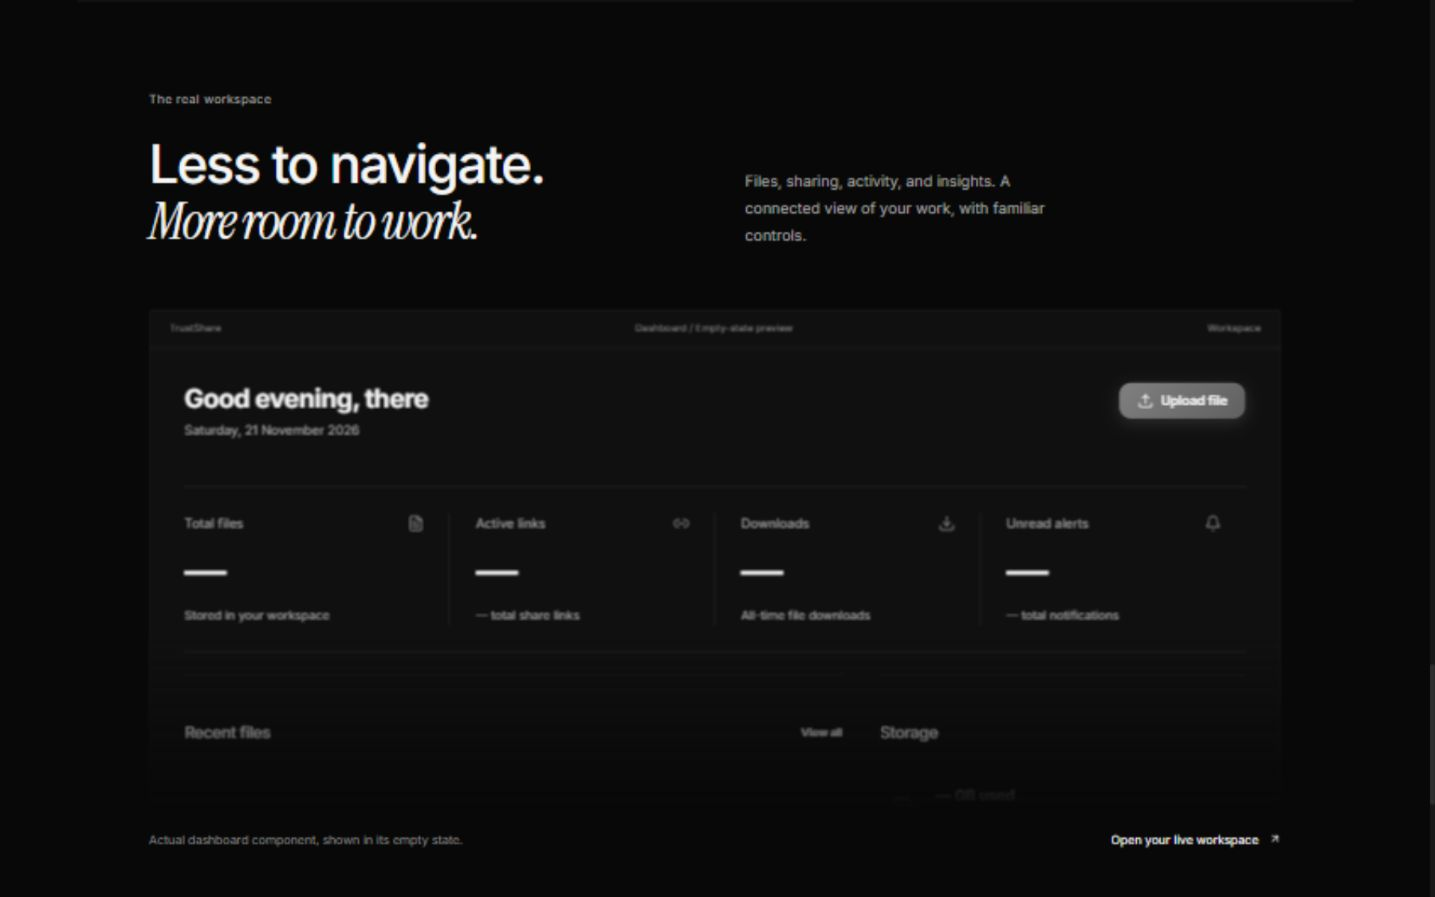
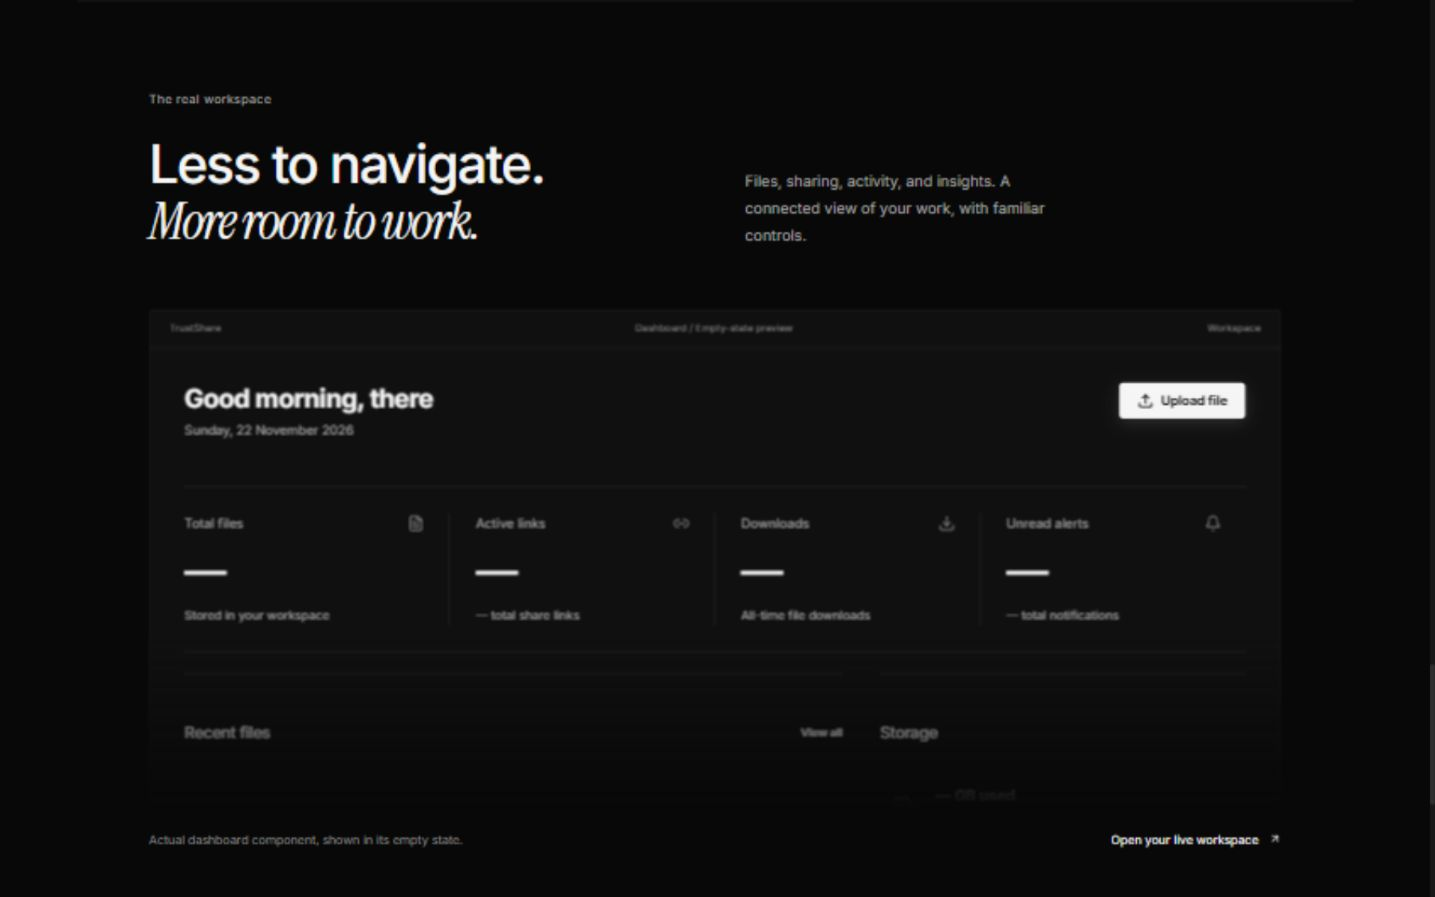
Document final visual checks and auth screenshots

Changed region(s): [[0.7666, 0.4058, 0.8892, 0.4682], [0.184, 0.437, 0.3066, 0.4994], [0.1533, 0.4682, 0.184, 0.4994]]

diff --git a/project-root/docs/MONOCHROME_REDESIGN.md b/project-root/docs/MONOCHROME_REDESIGN.md
@@ -22,7 +22,7 @@ Source: `client/src/styles/tokens.css`. Inter/system sans serves the interface; 
 | `--text-primary` | `#f5f5f5` | `#111111` | Main text |
 | `--text-secondary` | `#a6a6a6` | `#5f5f5f` | Supporting text |
 | `--text-muted` | `#858585` | `#707070` | Metadata |
-| `--accent` | white | `#111111` | Primary actions |
+| `--accent` | `#f5f5f5` | `#111111` | Primary actions |
 | `--accent-contrast` | `#080808` | white | Action foreground |
 
 Controls use small radii and restrained 120–220ms interactions. Dialogs retain modest depth. Focus outlines are visible. Status icons and explicit labels remain; meaning does not depend on hue. Analytics uses labeled grayscale series, a dashed failed-login line, and hatched download bars. API chart values are unchanged.
@@ -67,7 +67,12 @@ Public screenshots below contain no account records. Authenticated dashboard/adm
 | Formation | ![Particle torus](design/formation-dark.jpg) |
 | Formation progress | ![Particle progress](design/formation-progress-dark.jpg) |
 | Actual dashboard component | ![Empty-state dashboard preview](design/product-dark.jpg) |
+| Product preview, light | ![Light product preview](design/product-light.jpg) |
 | Closing | ![Closing](design/closing-dark.jpg) |
+| Login, dark | ![Dark login](design/login-dark.jpg) |
+| Login, light | ![Light login](design/login-light.jpg) |
+
+Mobile authentication: [dark](design/login-390-dark.jpg) and [light](design/login-390-light.jpg). The narrative is hidden on narrow screens, the form is centered, and inputs/password toggles have accessible names. Selected controls use readable foregrounds in both themes.
 
 Responsive entrance screenshots: [390px](design/home-390-light.jpg), [768px](design/home-768-light.jpg), [1024px](design/home-1024-light.jpg), [1920px](design/home-1920-light.jpg). A 1440px dark/light entrance was also inspected. All five representative widths had document scroll width equal to client width. These are representative visual checks, not an exhaustive accessibility certification.
 
@@ -84,6 +89,8 @@ npm run build
 The final working-tree frontend run (including earlier local functional fixes outside this PR) has 9 suites passing and 6 failing; 58 tests pass and 12 fail. The final focused landing and layout/authorization run passes all 21 tests across two suites. Thirteen staged auth handlers also match their original committed implementations. The original committed frontend was separately extracted and tested without modifying the working tree: 6 suites passed and 6 failed; 36 tests passed and 12 failed. The same six failing suites occur in both trees: FileDragDrop, Notifications, PublicShare, ActivityPage, Sharing, and NavbarNotifications. They involve stale control/class expectations, a missing Sharing export, and Jest parsing of an ESM dependency. These unrelated functional/test problems were left untouched.
 
 Browser review uses the ChatGPT in-app browser only. It checks visual rendering and navigation, not a complete new end-to-end exercise of email delivery, OAuth providers, destructive admin actions, upload encryption, or public downloads. The dashboard shows an em dash when an existing API metric is absent; no fabricated zero is inserted. A native walkthrough recording was unavailable, so the scene captures and review instructions are supplied instead.
+
+The existing admin session was used to inspect Dashboard, My Files (grid/list), Sharing, Shared with Me, Activity, Notifications, Analytics, Admin, Settings, and the assistant's configuration-required state. Folder and sharing dialogs were opened and dismissed without creating records. Login theme switching and password visibility were checked. Dashboard and My Files also fit at 390px. A real mobile Analytics overflow was corrected with shrinkable grid tracks/cards and wrapping headers, then rechecked at 390px: scroll width equals client width. Member-only visibility and role guards were covered by the passing layout tests; a separate member browser session was not used. The local AI assistant still requires its existing API-key configuration.
 
 ## Changed areas
 
